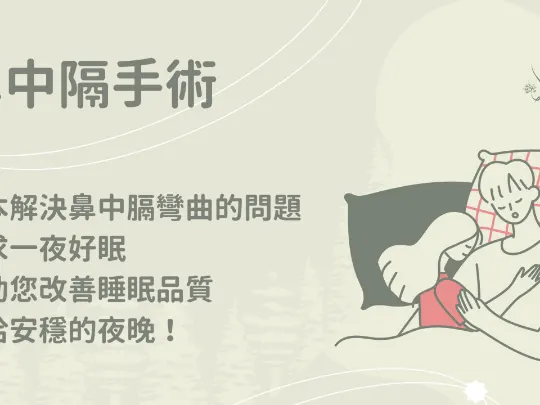
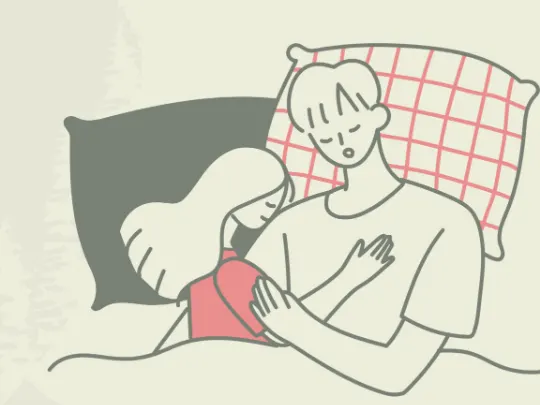
Stop shipping the treatment card text as cropped pixels
The four service card sources are marketing slides and an infographic:
title and body on the left half, illustration on the right. The build
step centre-cropped them to 4:3 and silently discarded 25% to 63.4% of
the frame, so the shipped WebP read "子眠牙套" instead of "止鼾好眠牙套"
and showed one of the five snoring causes instead of all five.

Every gate stayed green throughout. check:tokens reads CSS,
typography.spec.ts measures computed style, axe walks the accessibility
tree — none of them open a WebP to see what is written inside it, and
`alt="止鼾五合一療程示意"` looks correct to all of them.

The three slides now crop to the illustration alone. Their baked-in
title and body already duplicate the card's own title and subtitle, and
had drifted from it ("好眠牙套" against "止鼾好眠牙套"), so dropping the
text returns it to HTML and satisfies WCAG 1.4.5. The left edge of each
box is measured, not estimated: body copy ends at x≈0.560 on turbinate
and x≈0.635 on mouthguard, and a first attempt that ignored this leaked
partial glyphs into two cards.

The infographic has no illustration to keep, so its five causes and
eight sub-items move into clinic-content.js verbatim, in the desktop
source's ordering. The renderer is untouched — they reuse the existing
heading/paragraphs/bullets shape. Its card image is now the sleeping
figure from the clinic's own symptoms graphic.

MAX_BLIND_DISCARD makes this fail closed: a target whose centre crop
[…]

diff --git a/apps/web/public/clinic-content.js b/apps/web/public/clinic-content.js
@@ -110,7 +110,7 @@ export const NASAL_SERVICES = [
     eyebrow: 'SNORING CARE',
     subtitle: '從鼻腔結構、呼吸狀況到睡眠品質，一次完成整合評估。',
     image: '/clinic-assets/service-snoring.webp',
-    imageAlt: '止鼾五合一療程示意',
+    imageAlt: '側躺睡眠時張口呼吸的示意插圖',
     intro:
       '打鼾可能來自鼻腔阻塞、軟組織震動或睡眠呼吸障礙。診所會先由耳鼻喉科醫師檢查鼻腔結構與呼吸狀況，再依個別原因提出合適的治療方向。',
     highlights: [
@@ -123,6 +123,27 @@ export const NASAL_SERVICES = [
         heading: '什麼是打鼾？',
         paragraphs: [
           '睡眠時上呼吸道變窄，氣流通過軟組織所產生的震動會形成鼾聲。若同時出現呼吸中止、夜間驚醒或白天嗜睡，可能與阻塞型睡眠呼吸中止症有關，建議進一步接受專業評估。'
+        ]
+      },
+      {
+        // 這五項原本只存在於 service-snoring.png 的像素裡（官網 2024/11 的資訊圖，
+        // sha256 69d04fee…1e407e）。2026-08-07 搬成文字：文案一字未改，順序依桌機版
+        // 原圖；該來源檔同日移除，內容以本段為準，原圖仍可由 git 歷史取回。
+        //
+        // 為什麼要搬：圖裡的字放大不會變大、報讀器讀不到、也複製不了（WCAG 2.2
+        // SC 1.4.5，這些內容用 HTML 完全可以呈現，因此不適用 essential 例外）。
+        // 而且官網的桌機版與手機版對這五項的編號順序**不一致**（2/3/4 互換），
+        // 兩份圖沒有任何機制會發現彼此分歧——圖片不是可維護的內容來源。
+        heading: '打鼾的五個常見成因',
+        paragraphs: [
+          '打鼾通常不是單一原因造成，下列因素常同時存在。實際情形仍需由醫師面診判斷。'
+        ],
+        bullets: [
+          '體重過重',
+          '鼻結構異常：鼻中膈彎曲、下鼻甲肥厚、過敏性鼻炎',
+          '咽喉結構異常：舌頭肥厚後傾、軟顎無力、懸壅垂過長',
+          '下巴短厚',
+          '生活習慣欠佳：抽菸、酒精'
         ]
       },
       {
@@ -177,7 +198,7 @@ export const NASAL_SERVICES = [
     eyebrow: 'NASAL AIRWAY',
     subtitle: '改善長期鼻塞，讓日常呼吸與睡眠更順暢。',
     image: '/clinic-assets/service-turbinate.webp',
-    imageAlt: '下鼻甲手術治療示意',
+    imageAlt: '鼻腔內部結構的示意插圖，標示下鼻甲位置',
     intro:
       '下鼻甲肥大會縮小鼻腔呼吸空間。若藥物治療效果有限，醫師可能依檢查結果評估是否以手術縮減肥厚組織，改善鼻塞、呼吸與睡眠品質。',
     highlights: ['傷口小', '療程時間短', '多數情況可當日返家'],
@@ -217,7 +238,7 @@ export const NASAL_SERVICES = [
     eyebrow: 'SEPTAL CARE',
     subtitle: '針對鼻中隔彎曲造成的結構性阻塞，重新找回通暢呼吸。',
     image: '/clinic-assets/service-septoplasty.webp',
-    imageAlt: '鼻中隔手術治療示意',
+    imageAlt: '兩人夜間安穩入睡的示意插圖',
     intro:
       '鼻中隔是分隔左右鼻腔的結構。先天發育或外傷可能使鼻中隔偏曲；若造成長期鼻塞、反覆鼻竇問題、打鼾或睡眠品質下降，可由醫師評估是否需要矯正。',
     highlights: ['改善結構性鼻塞', '兼顧鼻腔功能', '依個別彎曲程度規劃'],
@@ -254,7 +275,7 @@ export const NASAL_SERVICES = [
     eyebrow: 'SLEEP APPLIANCE',
     subtitle: '非侵入式睡眠輔具，經醫師評估後量身規劃。',
     image: '/clinic-assets/service-mouthguard.webp',
-    imageAlt: '止鼾好眠牙套示意',
+    imageAlt: '止鼾牙套裝在上下排牙齒上的器械示意插圖',
     intro:
       '止鼾牙套可在睡眠時讓下顎或舌頭維持較前方的位置，減少上呼吸道塌陷。是否適用仍需經醫師評估牙齒、顳顎關節、鼻呼吸與睡眠狀況。',
     highlights: ['非侵入式', '個別評估製作', '可攜帶且容易日常使用'],
